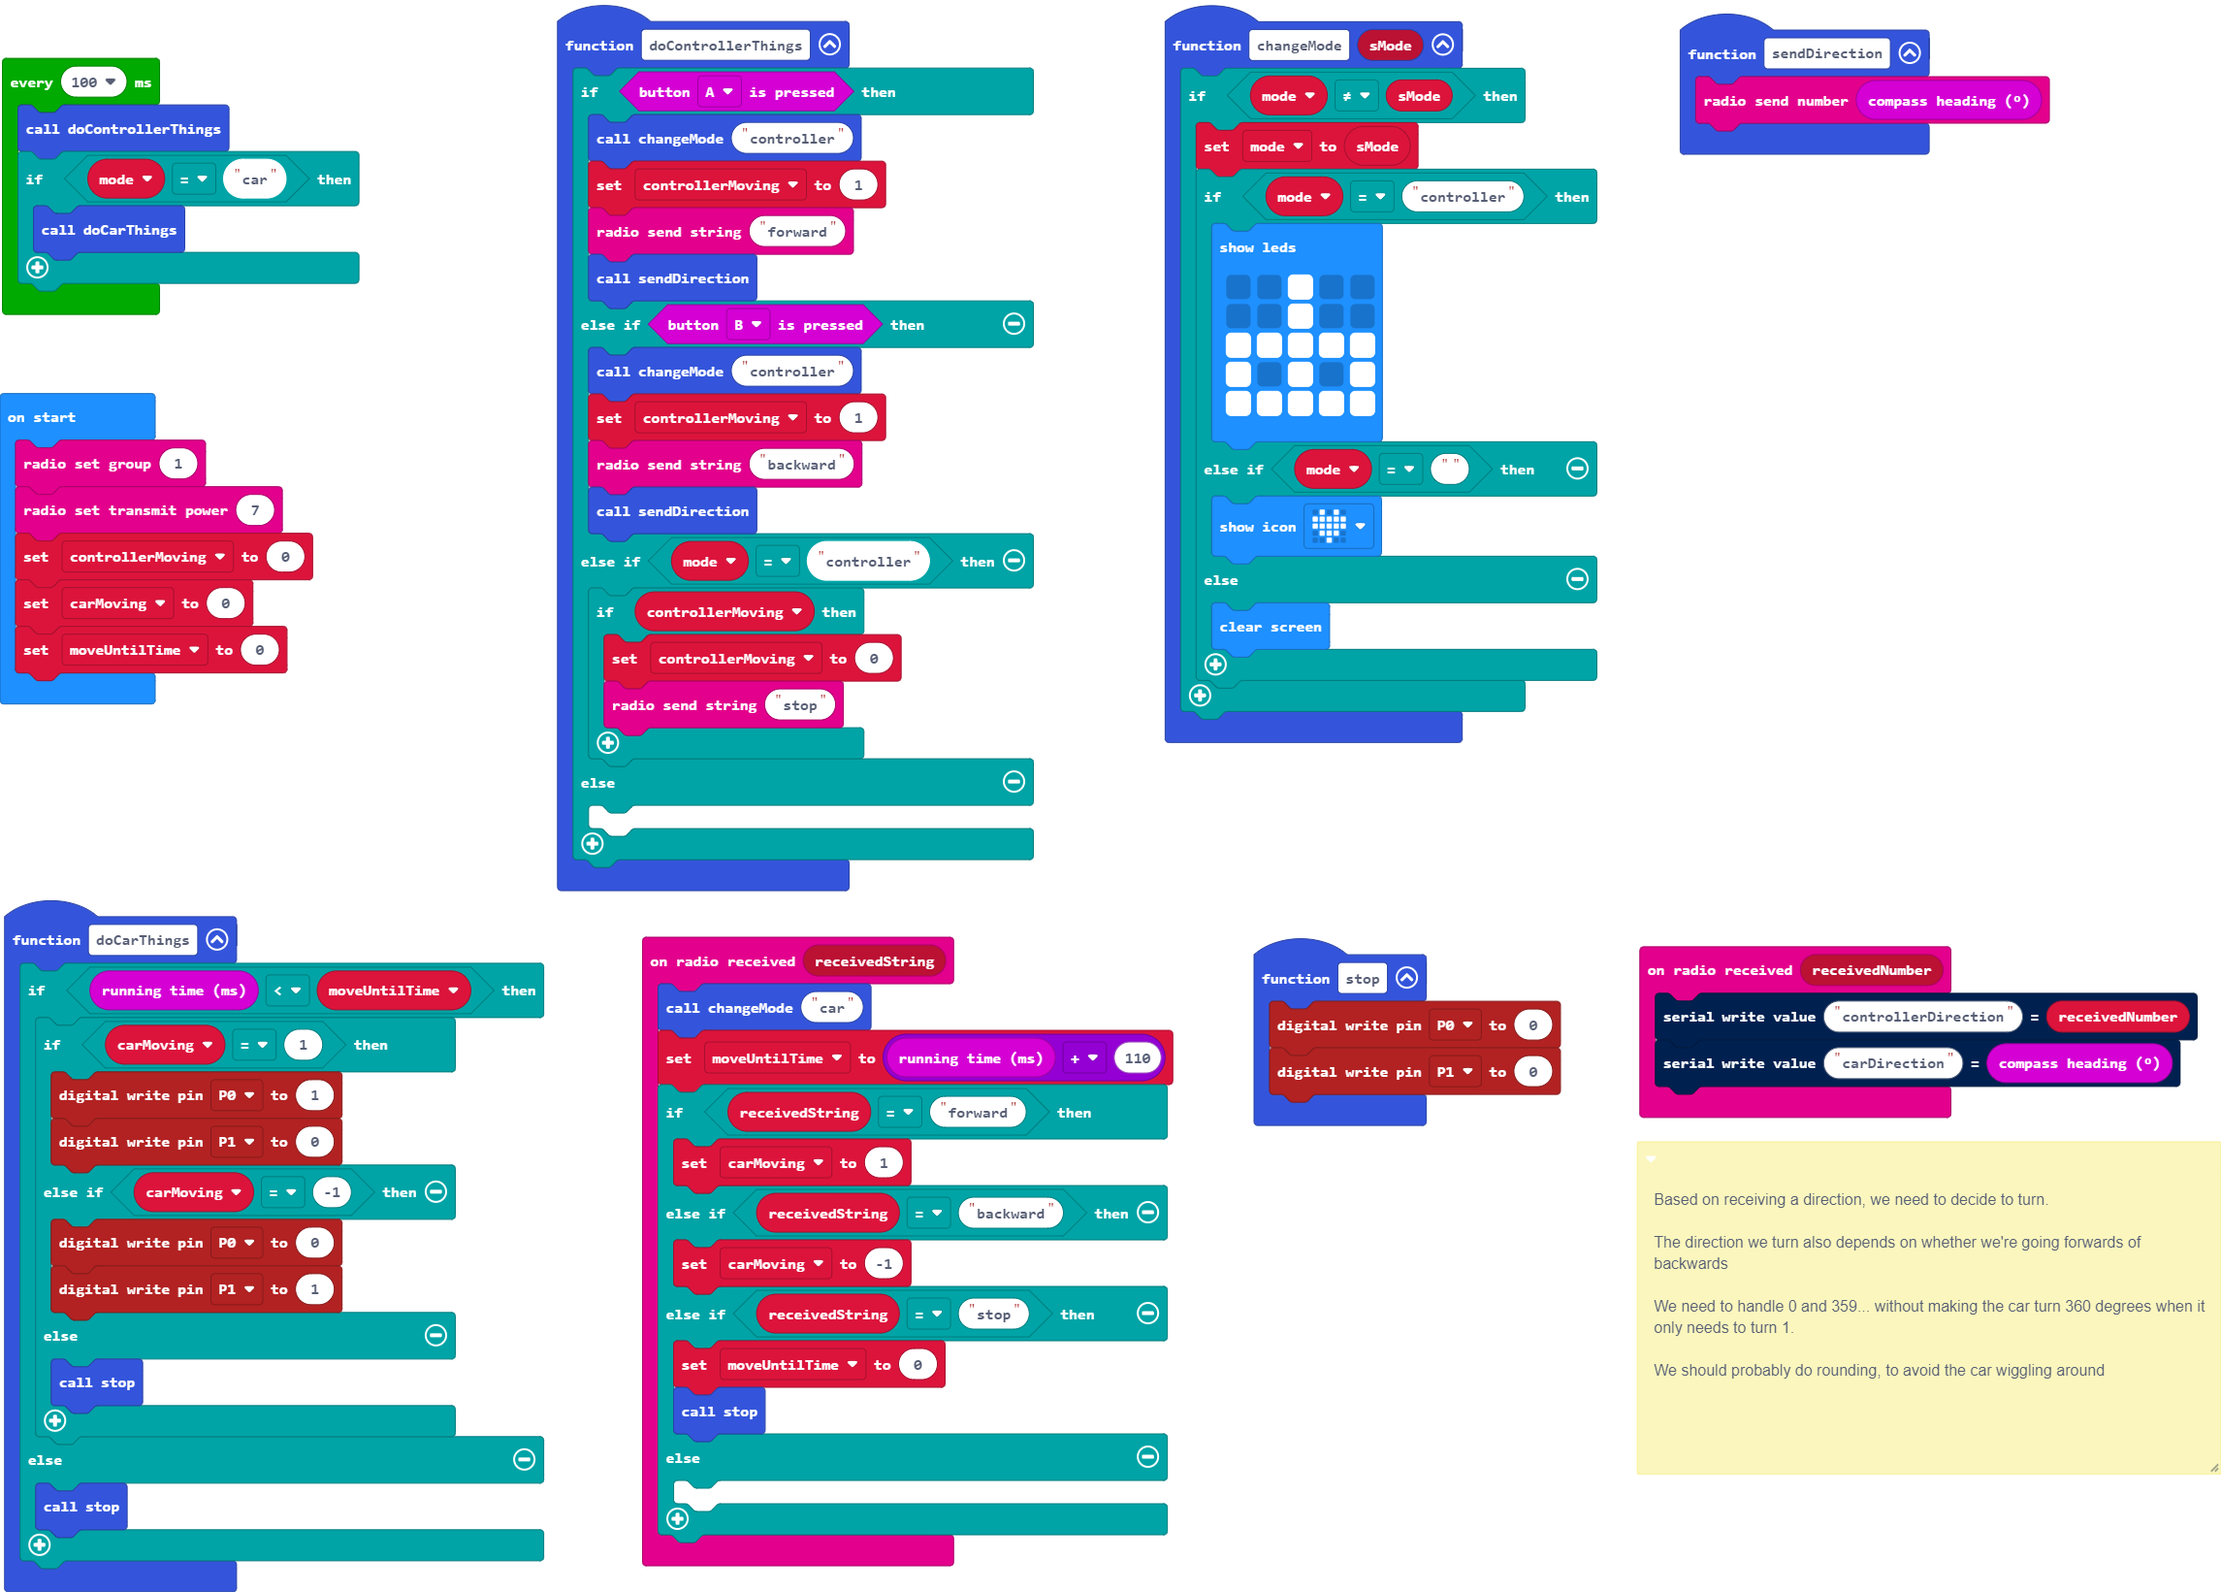
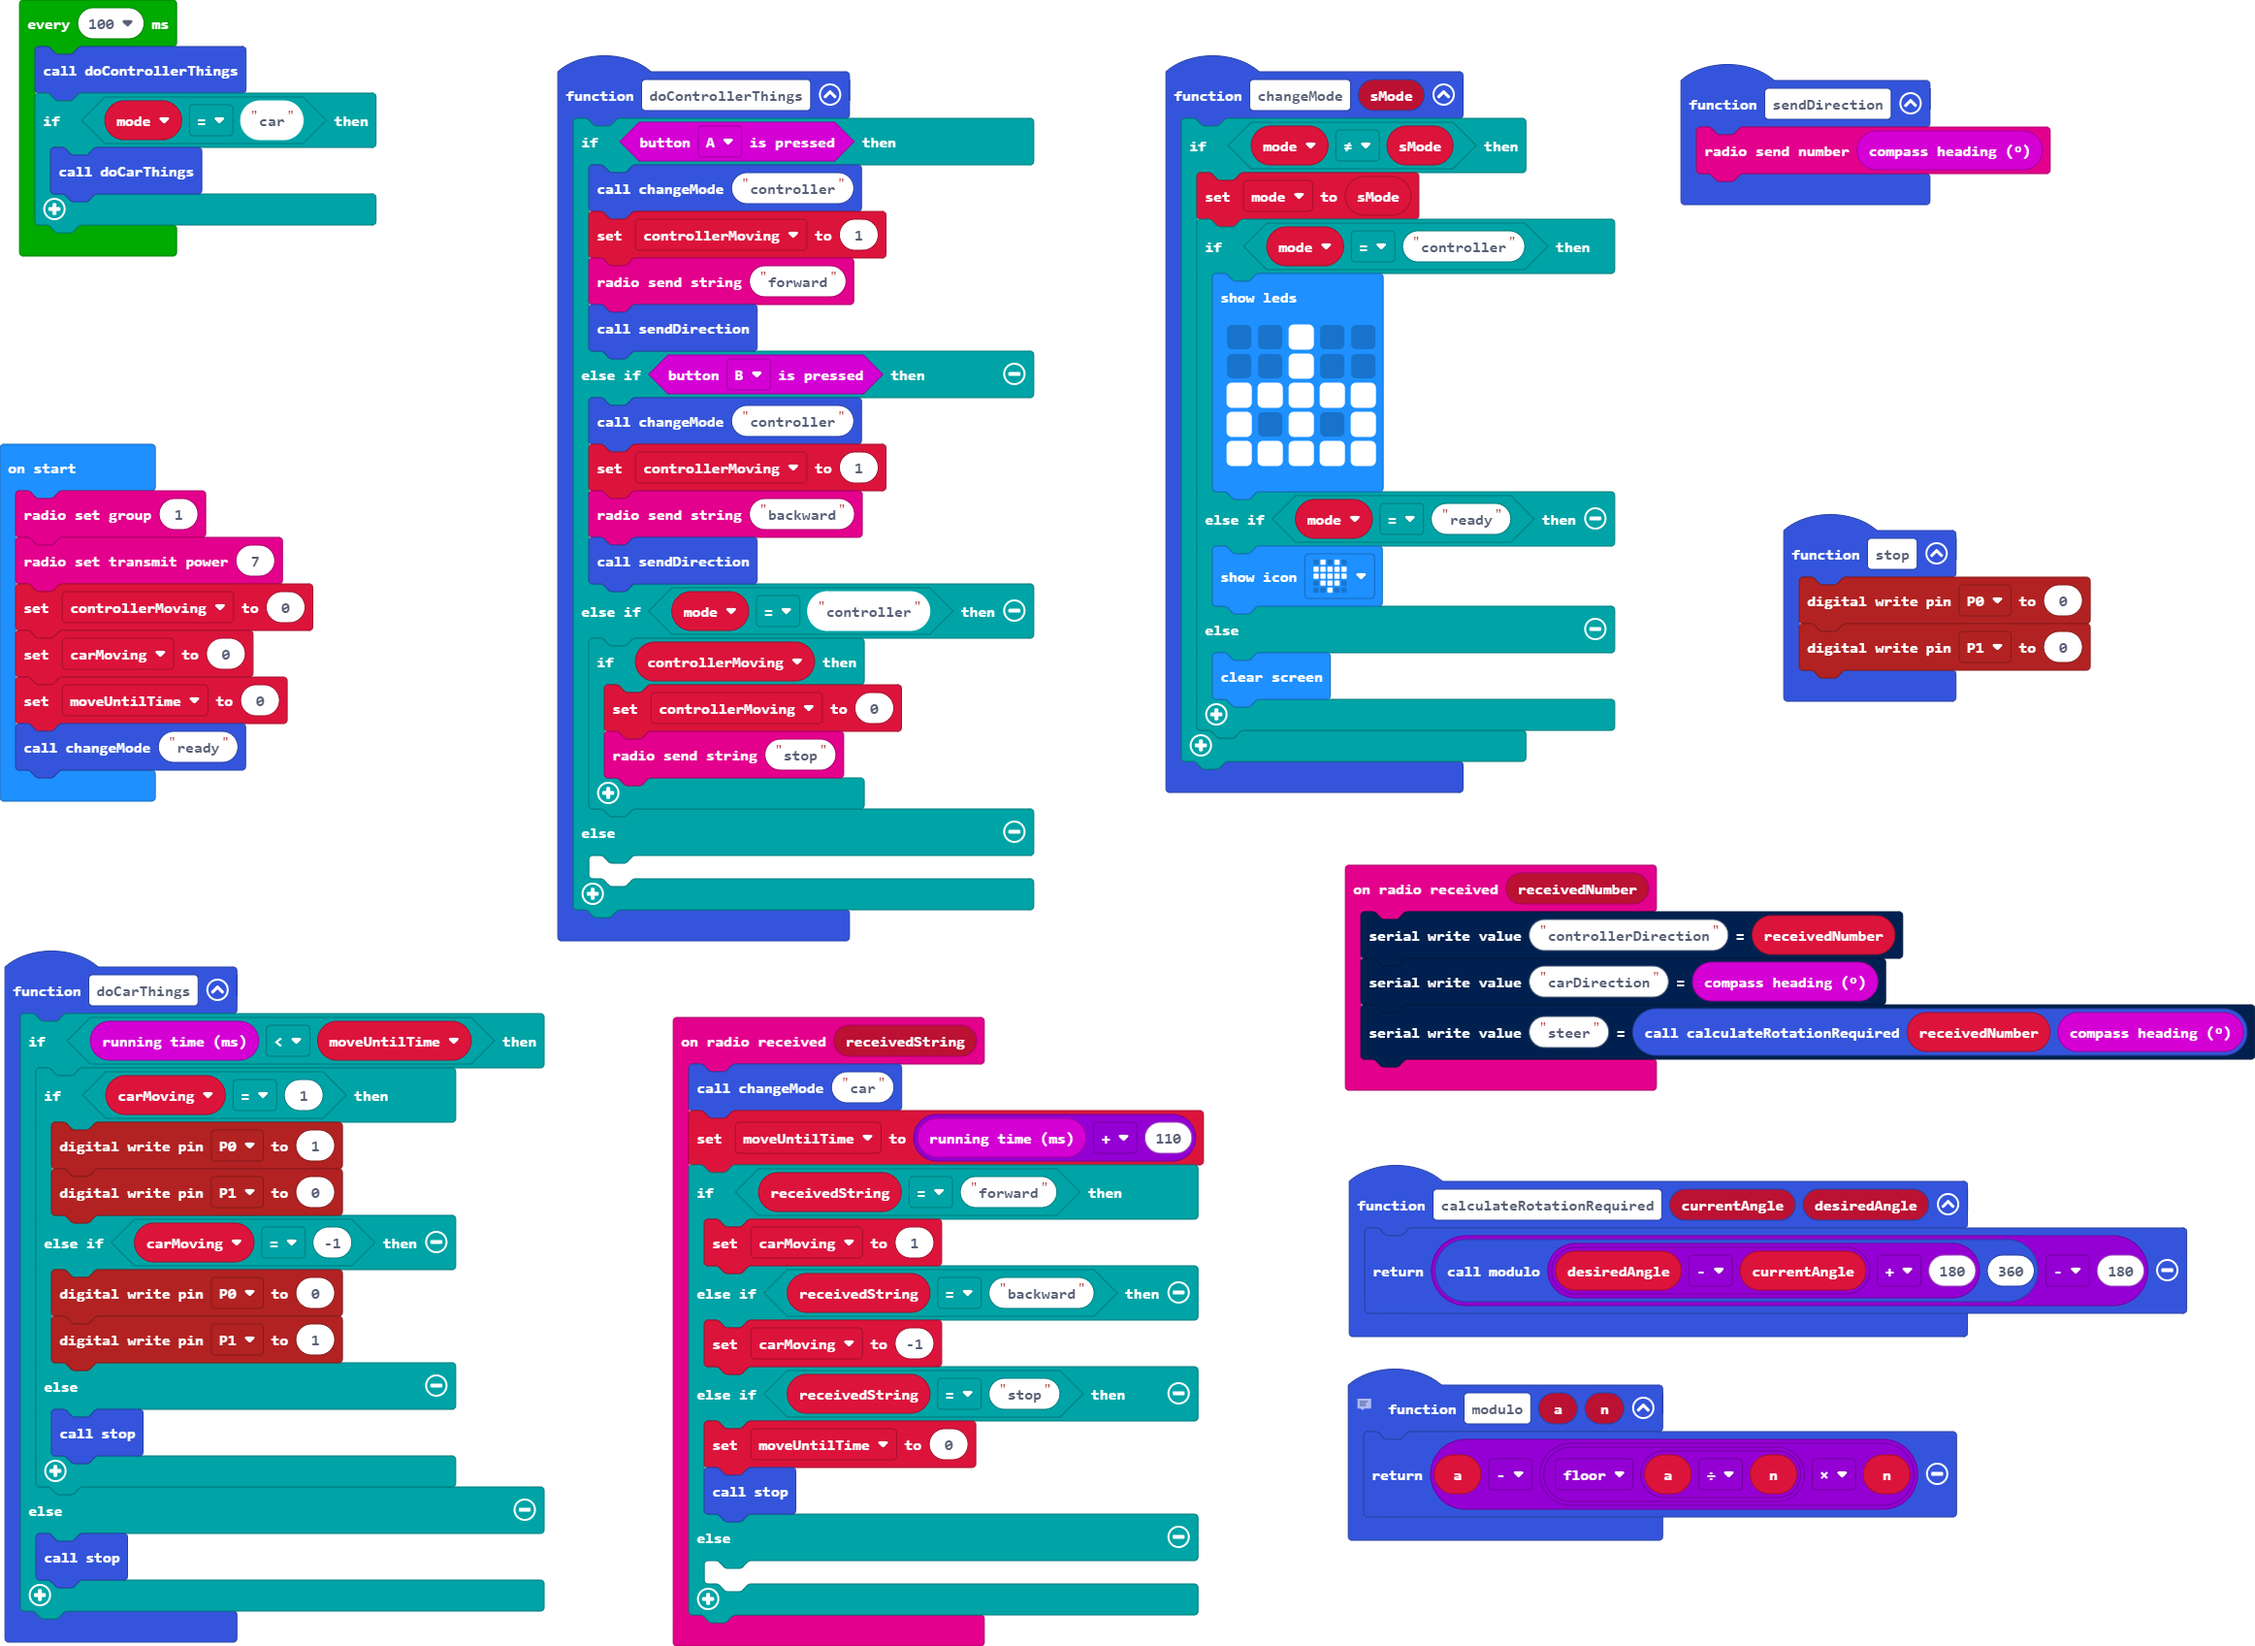
Update main.blocks, main.ts

diff --git a/main.ts b/main.ts
@@ -1,18 +1,14 @@
-/**
- * Based on receiving a direction, we need to decide to turn.
- * 
- * The direction we turn also depends on whether we're going forwards of backwards
- * 
- * We need to handle 0 and 359... without making the car turn 360 degrees when it only needs to turn 1.
- * 
- * We should probably do rounding, to avoid the car wiggling around
- */
 function sendDirection () {
     radio.sendNumber(input.compassHeading())
+}
+// JS modulo doesn't work like most other languages, so a custom version is required
+function modulo (a: number, n: number) {
+    return a - Math.floor(a / n) * n
 }
 radio.onReceivedNumber(function (receivedNumber) {
     serial.writeValue("controllerDirection", receivedNumber)
     serial.writeValue("carDirection", input.compassHeading())
+    serial.writeValue("steer", calculateRotationRequired(receivedNumber, input.compassHeading()))
 })
 function stop () {
     pins.digitalWritePin(DigitalPin.P0, 0)
@@ -78,12 +74,15 @@ function changeMode (sMode: string) {
                 # . # . #
                 # # # # #
                 `)
-        } else if (mode == "") {
+        } else if (mode == "ready") {
             basic.showIcon(IconNames.Heart)
         } else {
             basic.clearScreen()
         }
     }
+}
+function calculateRotationRequired (currentAngle: number, desiredAngle: number) {
+    return modulo(desiredAngle - currentAngle + 180, 360) - 180
 }
 let mode = ""
 let moveUntilTime = 0
@@ -94,6 +93,7 @@ radio.setTransmitPower(7)
 controllerMoving = 0
 carMoving = 0
 moveUntilTime = 0
+changeMode("ready")
 loops.everyInterval(100, function () {
     doControllerThings()
     if (mode == "car") {
